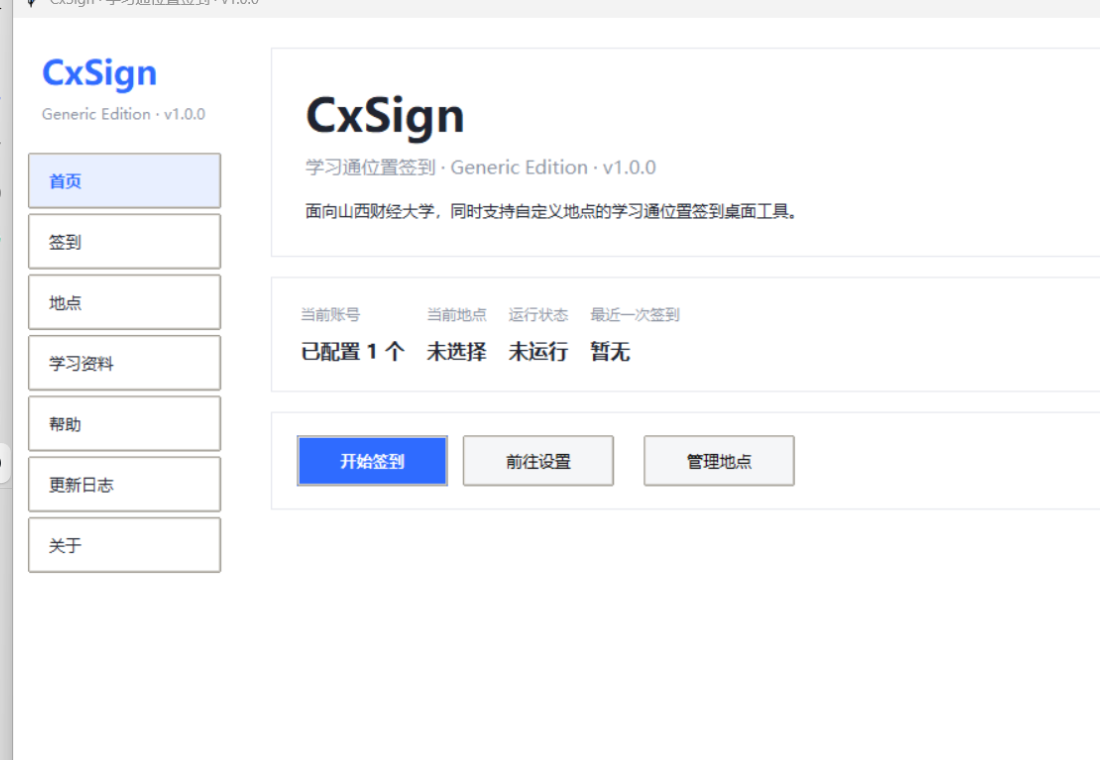
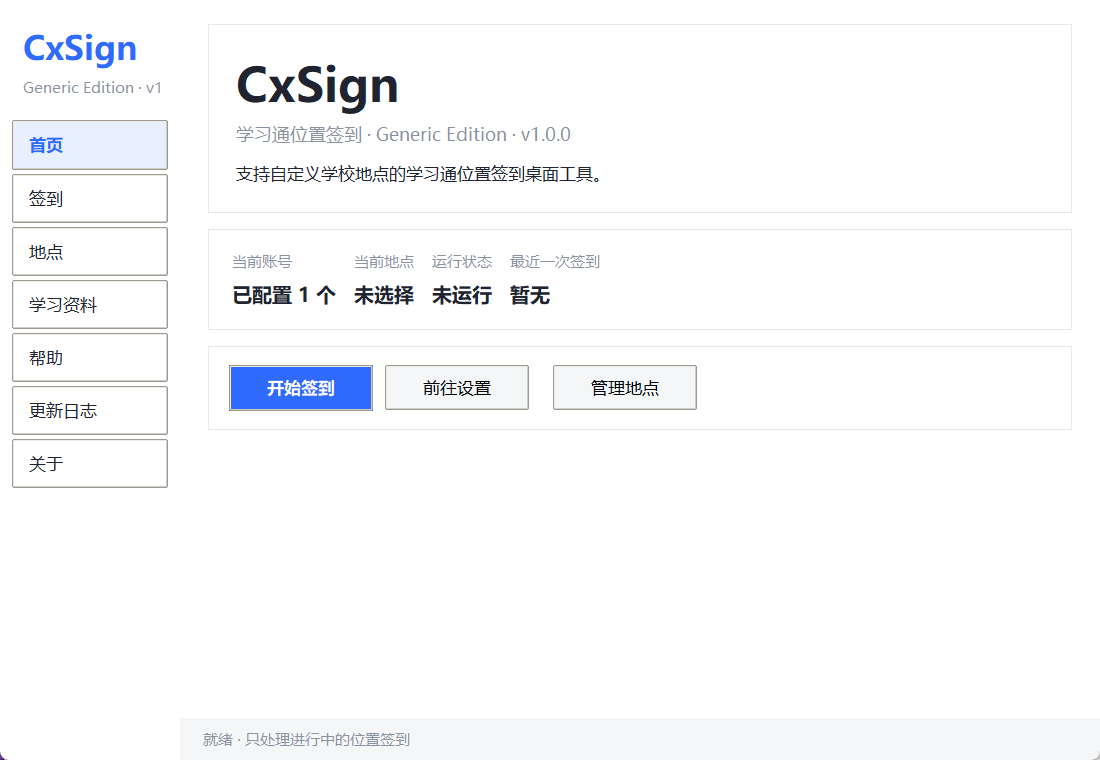
release: prepare CxSign v1.0.0 public editions

diff --git a/build_release.py b/build_release.py
@@ -8,11 +8,15 @@
 3. 打包成 zip，并生成 RELEASE_CONTENTS_*.txt 内容清单供检查。
 """
 import json
+import argparse
+import os
 import shutil
 import subprocess
 import sys
 import zipfile
 from pathlib import Path
+from importlib.metadata import distribution
+from app_config import CONTACT_EMAIL, REPO_URL
 
 ROOT = Path(__file__).resolve().parent
 VERSION = '1.0.0'
@@ -26,9 +30,10 @@ EDITIONS = {
 
 
 def build_exe():
+    env = dict(os.environ, PYINSTALLER_CONFIG_DIR=str(ROOT / 'build' / 'pyinstaller-cache'))
     subprocess.run(
         [sys.executable, '-m', 'PyInstaller', 'CxSign.spec', '--noconfirm', '--clean'],
-        cwd=ROOT, check=True,
+        cwd=ROOT, check=True, env=env,
     )
     exe = DIST / 'CxSign.exe'
     if not exe.exists():
@@ -37,28 +42,63 @@ def build_exe():
 
 
 def assemble(exe):
+    # Never remove an earlier package or a user's saved configuration.
+    if not RELEASE.resolve().is_relative_to(ROOT.resolve()):
+        raise ValueError('发行目录必须位于项目目录内')
+    for name in EDITIONS:
+        for suffix in ('', '.zip'):
+            if (RELEASE / f'CxSign-v{VERSION}-{name}{suffix}').exists():
+                raise FileExistsError('目标发行包已存在，请使用新的 --output 目录')
     for name, config in EDITIONS.items():
         folder = RELEASE / f'CxSign-v{VERSION}-{name}'
-        if folder.exists():
-            shutil.rmtree(folder)
         folder.mkdir(parents=True)
 
         shutil.copy(exe, folder / 'CxSign.exe')
         (folder / 'config.json').write_text(
             json.dumps(config, ensure_ascii=False, indent=2) + '\n', encoding='utf-8')
         shutil.copy(ROOT / 'user.example.json', folder / 'user.example.json')
-        shutil.copy(ROOT / 'README.md', folder / 'README.md')
+        (folder / 'README.md').write_text(
+            f'# CxSign v{VERSION} — {name} Edition\n\n'
+            '解压到可写目录，双击 CxSign.exe 启动，无需安装 Python。\n\n'
+            '首次使用阅读用户须知，添加自己的账号和地点；输入完整课程名后可先“仅查询”，再执行“查询并签到”。\n\n'
+            'SCUFE 内置山财地点和资料入口；Generic 初始地点为空。两个版本均支持自定义地点。\n\n'
+            '账号以明文保存在本机，登录凭据仅用于学习通请求。请勿分享包含个人配置的程序目录。\n\n'
+            '仅支持位置签到；接口或网络变化可能影响功能，结果请在学习通核对。\n\n'
+            '[使用教程](docs/USER_GUIDE.md) · [隐私说明](docs/PRIVACY.md) · [免责声明](docs/DISCLAIMER.md)\n\n'
+            f'反馈：{REPO_URL}/issues · {CONTACT_EMAIL}\n\n'
+            '反馈时请勿发送账号、密码、Cookie、Token、学号或私人配置。\n', encoding='utf-8')
+        for filename in ('LICENSE', 'THIRD_PARTY_NOTICES.md', 'CHANGELOG.md'):
+            shutil.copy(ROOT / filename, folder / filename)
+        (folder / 'docs').mkdir()
+        for filename in ('USER_GUIDE.md', 'PRIVACY.md', 'DISCLAIMER.md'):
+            shutil.copy(ROOT / 'docs' / filename, folder / 'docs' / filename)
+        licenses = folder / 'licenses'
+        licenses.mkdir()
+        runtime = ('aiohttp', 'aiohappyeyeballs', 'aiosignal', 'attrs', 'beautifulsoup4',
+                   'frozenlist', 'idna', 'lxml', 'multidict', 'propcache', 'soupsieve',
+                   'typing_extensions', 'yarl', 'packaging', 'setuptools', 'pyinstaller')
+        for package in runtime:
+            dist = distribution(package)
+            for file in dist.files or ():
+                if any(word in file.name.lower() for word in ('license', 'copying', 'notice')) and not file.name.endswith(('.py', '.pyc')):
+                    source = Path(dist.locate_file(file))
+                    if source.is_file():
+                        destination = licenses / package / str(file).replace('..', '_')
+                        destination.parent.mkdir(parents=True, exist_ok=True)
+                        shutil.copy(source, destination)
+        python_license = Path(sys.base_prefix) / 'LICENSE.txt'
+        if not python_license.is_file():
+            raise FileNotFoundError('缺少 Python 运行时许可证')
+        shutil.copy(python_license, licenses / 'PYTHON-LICENSE.txt')
 
         zip_path = RELEASE / f'CxSign-v{VERSION}-{name}.zip'
-        if zip_path.exists():
-            zip_path.unlink()
         with zipfile.ZipFile(zip_path, 'w', zipfile.ZIP_DEFLATED) as zf:
             for f in sorted(folder.rglob('*')):
                 if f.is_file():
                     zf.write(f, f.relative_to(RELEASE))
 
         contents = [str(p.relative_to(folder)) for p in sorted(folder.rglob('*')) if p.is_file()]
-        (RELEASE / f'RELEASE_CONTENTS_{name}.txt').write_text(
+        (RELEASE / f'RELEASE_CONTENTS_{name.upper()}.txt').write_text(
             '\n'.join(contents) + '\n', encoding='utf-8')
 
     print('构建完成：')
@@ -67,5 +107,11 @@ def assemble(exe):
 
 
 if __name__ == '__main__':
+    parser = argparse.ArgumentParser(description=__doc__)
+    parser.add_argument('--output', default='release', help='项目内的新发行目录（保留已有包）')
+    args = parser.parse_args()
+    RELEASE = (ROOT / args.output).resolve()
+    if not RELEASE.is_relative_to(ROOT):
+        parser.error('output 必须位于项目目录内')
     exe = build_exe()
     assemble(exe)

diff --git a/desktop_ui.py b/desktop_ui.py
@@ -97,7 +97,8 @@ class App(tk.Tk):
         self.show_page('home')
         self.after(100, self.poll)
         self.protocol('WM_DELETE_WINDOW', self.close)
-        self.after_idle(self._ensure_disclaimer)
+        # Allow initial window mapping to finish before a modal nested wait.
+        self.after(100, self._ensure_disclaimer)
 
     # ================= 样式与外壳 =================
     def _build_style(self):
@@ -195,7 +196,9 @@ class App(tk.Tk):
         tk.Label(hero, text=app_config.APP_NAME, bg=CARD, fg=TEXT, font=(FONT, 28, 'bold')).pack(anchor='w', padx=24, pady=(24, 2))
         tk.Label(hero, text=f"学习通位置签到 · {self.profile.get('display_name', '')} · v{app_config.APP_VERSION}",
                  bg=CARD, fg=MUTED, font=(FONT, 11)).pack(anchor='w', padx=24)
-        tk.Label(hero, text='面向山西财经大学，同时支持自定义地点的学习通位置签到桌面工具。',
+        description = ('面向山西财经大学，同时支持自定义地点的学习通位置签到桌面工具。'
+                       if self.edition == 'scufe' else '支持自定义学校地点的学习通位置签到桌面工具。')
+        tk.Label(hero, text=description,
                  bg=CARD, fg=TEXT, font=(FONT, 10), wraplength=700).pack(anchor='w', padx=24, pady=(10, 24))
 
         grid = self._card(page, pady=(16, 0))
@@ -349,6 +352,10 @@ class App(tk.Tk):
     def _build_help(self, parent):
         page = tk.Frame(parent, bg=CARD)
         self._page_title(page, '帮助', '根据当前程序真实功能整理的简明使用说明。')
+        feedback = tk.Frame(page, bg=CARD)
+        feedback.pack(anchor='w', pady=(0, 6))
+        ttk.Button(feedback, text='GitHub Issues', command=lambda: webbrowser.open(app_config.ISSUES_URL)).pack(side='left')
+        ttk.Button(feedback, text=app_config.CONTACT_EMAIL, command=lambda: webbrowser.open('mailto:' + app_config.CONTACT_EMAIL)).pack(side='left', padx=8)
         steps = [
             ('第一次使用', '首次启动会展示《用户须知》，点击「我已阅读并理解」进入主程序。'),
             ('填写账号', '在「签到」页点击「添加 / 更新账号」，输入学习通账号与密码（手机号登录时学校 ID 留空）。账号仅保存在本机。'),
@@ -357,7 +364,7 @@ class App(tk.Tk):
             ('开始签到', '在「签到」页输入完整课程名、选择账号，点击「查询并签到」；「仅查询」不会提交签到。'),
             ('判断签到成功', '结果列显示「签到成功」即表示已提交并复查通过；请以学习通内实际状态为准。'),
             ('常见错误', '网络失败会提示检查网络；登录失败请核对账号密码；地点不匹配请核对地点名称与坐标。'),
-            ('反馈问题', '请在 GitHub Issues 提交问题，提交前遮挡账号等隐私信息。'),
+            ('反馈问题', '请勿发送账号、密码、Cookie、Token、学号或私人配置；截图请遮挡个人信息。'),
             ('更新', '前往 GitHub Releases 下载新版本，或从源码运行 git pull 更新。'),
         ]
         for title, body in steps:
@@ -392,6 +399,7 @@ class App(tk.Tk):
         links = [
             ('GitHub 仓库', app_config.REPO_URL),
             ('问题反馈 / Issues', app_config.ISSUES_URL),
+            (app_config.CONTACT_EMAIL, 'mailto:' + app_config.CONTACT_EMAIL),
         ]
         for label, url in links:
             ttk.Button(page, text=label, command=lambda u=url: webbrowser.open(u)).pack(anchor='w', pady=2)

diff --git a/test_desktop_ui.py b/test_desktop_ui.py
@@ -81,6 +81,14 @@ class UiTests(unittest.TestCase):
         self.app = self.make_app('generic')
         self.assertEqual(self.app.locations, [])
         self.assertEqual(self.app.fixed_name.get(), '')
+        self.assertFalse(any('山西财经大学' in t for t in collect_texts(self.app.pages['home'])))
+
+    def test_contact_visible_only_in_help_and_about(self):
+        self.app = self.make_app('scufe')
+        email = desktop_ui.app_config.CONTACT_EMAIL
+        self.assertNotIn(email, collect_texts(self.app.pages['home']))
+        for page in ('help', 'about'):
+            self.assertIn(email, collect_texts(self.app.pages[page]))
 
     def test_custom_location_merged_after_presets(self):
         self.app = self.make_app('scufe')
@@ -90,6 +98,19 @@ class UiTests(unittest.TestCase):
         self.assertEqual(merged[-1]['longitude'], 113.0)
 
     # ===== 首次须知 =====
+    def test_real_first_start_maps_main_and_disclaimer(self):
+        self.app = App(config={'edition': 'generic', 'dev_mode': False}, profile=GENERIC_PROFILE)
+        visible = []
+        def probe():
+            notices = [w for w in self.app.winfo_children() if isinstance(w, tk.Toplevel)]
+            visible.append(bool(self.app.winfo_viewable() and notices and notices[0].winfo_viewable()))
+            for window in notices:
+                window.destroy()
+            self.app.after(1, self.app.quit)
+        self.app.after(500, probe)
+        self.app.mainloop()
+        self.assertEqual(visible, [True])
+
     def test_disclaimer_needed_when_not_accepted(self):
         self.app = self.make_app('scufe', config_extra={'dev_mode': False})
         self.assertTrue(self.app.disclaimer_needed())

diff --git a/app_config.py b/app_config.py
@@ -11,6 +11,7 @@ from paths import resource_root, data_root
 # ===== 品牌信息 =====
 APP_NAME = 'CxSign'
 APP_VERSION = '1.0.0'
+CONTACT_EMAIL = 'andyzhao722@gmail.com'
 REPO_URL = 'https://github.com/Xiaotian69/CampusSign'
 ISSUES_URL = REPO_URL + '/issues'
 EXAM_REPO_URL = 'https://github.com/Xiaotian69/shanxi-caijing-exams'

diff --git a/RELEASE_NOTES_v1.0.0.md b/RELEASE_NOTES_v1.0.0.md
@@ -1,6 +1,6 @@
-# CxSign v1.0.0 Release Notes（草案，尚未发布）
+# CxSign v1.0.0
 
-计划中的首个版本，当前仅作 Private 验收准备，尚未发布 Release。CxSign 是一个面向山西财经大学、同时支持其他学校自定义地点的学习通位置签到桌面工具。
+CxSign 首个公开版本。CxSign 是一个面向山西财经大学、同时支持其他学校自定义地点的学习通位置签到桌面工具。
 
 ## 本次发布包含
 
@@ -29,3 +29,14 @@
 ## 使用
 
 解压后双击 `CxSign.exe` 启动。首次启动会展示《用户须知》，按引导完成账号与地点配置即可使用。详见包内 `README.md` 或仓库 `docs/USER_GUIDE.md`。
+
+## 隐私与反馈
+
+账号和配置以明文保存在用户本机；凭据仅用于向学习通发起必要请求，不发送给开发者后台。请勿分享包含个人配置的程序目录。
+
+- [GitHub Issues](https://github.com/Xiaotian69/CampusSign/issues)
+- Email：[andyzhao722@gmail.com](mailto:andyzhao722@gmail.com)
+
+反馈时不要发送账号、密码、Cookie、Token、学号或私人配置，截图请遮挡个人信息。
+
+如果 CxSign 对你有帮助，欢迎点一个 Star ⭐。

diff --git a/docs/RELEASE_CHECKLIST.md b/docs/RELEASE_CHECKLIST.md
@@ -1,11 +1,11 @@
-# Private 发布准备与验收
+# 发布检查清单
 
 - 检查 main 的工作区、全部可达提交、配置模板、双 Edition 和文档。
 - 用独立虚拟环境安装 requirements.txt，运行 `python -m unittest test_desktop test_desktop_ui -v`。
 - 扫描 Git 文件及历史内容和提交元数据；人工检查截图。私人配置、日志、构建目录和备份不提交。
-- README 标明当前尚未发布，下载名仅为规划；SCUFE 与 Generic 共用核心。
-- 仅推送到 Private 仓库；从远端重新获取 main，复核提交、文件及隐私。
-- 保留 Private，不创建版本标签或 Release，等待维护者真实签到验收。
+- README 的版本与下载链接应与 Release 一致；SCUFE 与 Generic 共用核心。
+- 上传前检查文件及提交隐私；发布后从远端重新获取 main 和发行包再次检查。
+- 仅在维护者明确授权后公开仓库并创建 Tag / Release。
 
 ## 真实签到验收
 

diff --git a/THIRD_PARTY_NOTICES.md b/THIRD_PARTY_NOTICES.md
@@ -12,4 +12,4 @@
 
 - 上述版本为作者本地验证环境使用的版本，如需更新请先在本机验证签到功能。
 - 各依赖的完整许可证文本分别参见其上游仓库的 LICENSE 文件。
-- 本项目不包含、不捆绑任何第三方二进制文件。
+- 源码仓库不包含第三方二进制文件；Windows 发行包包含 Python、Tcl/Tk 和运行依赖，相关许可证随包保存在 `licenses/` 及内嵌运行时中。
